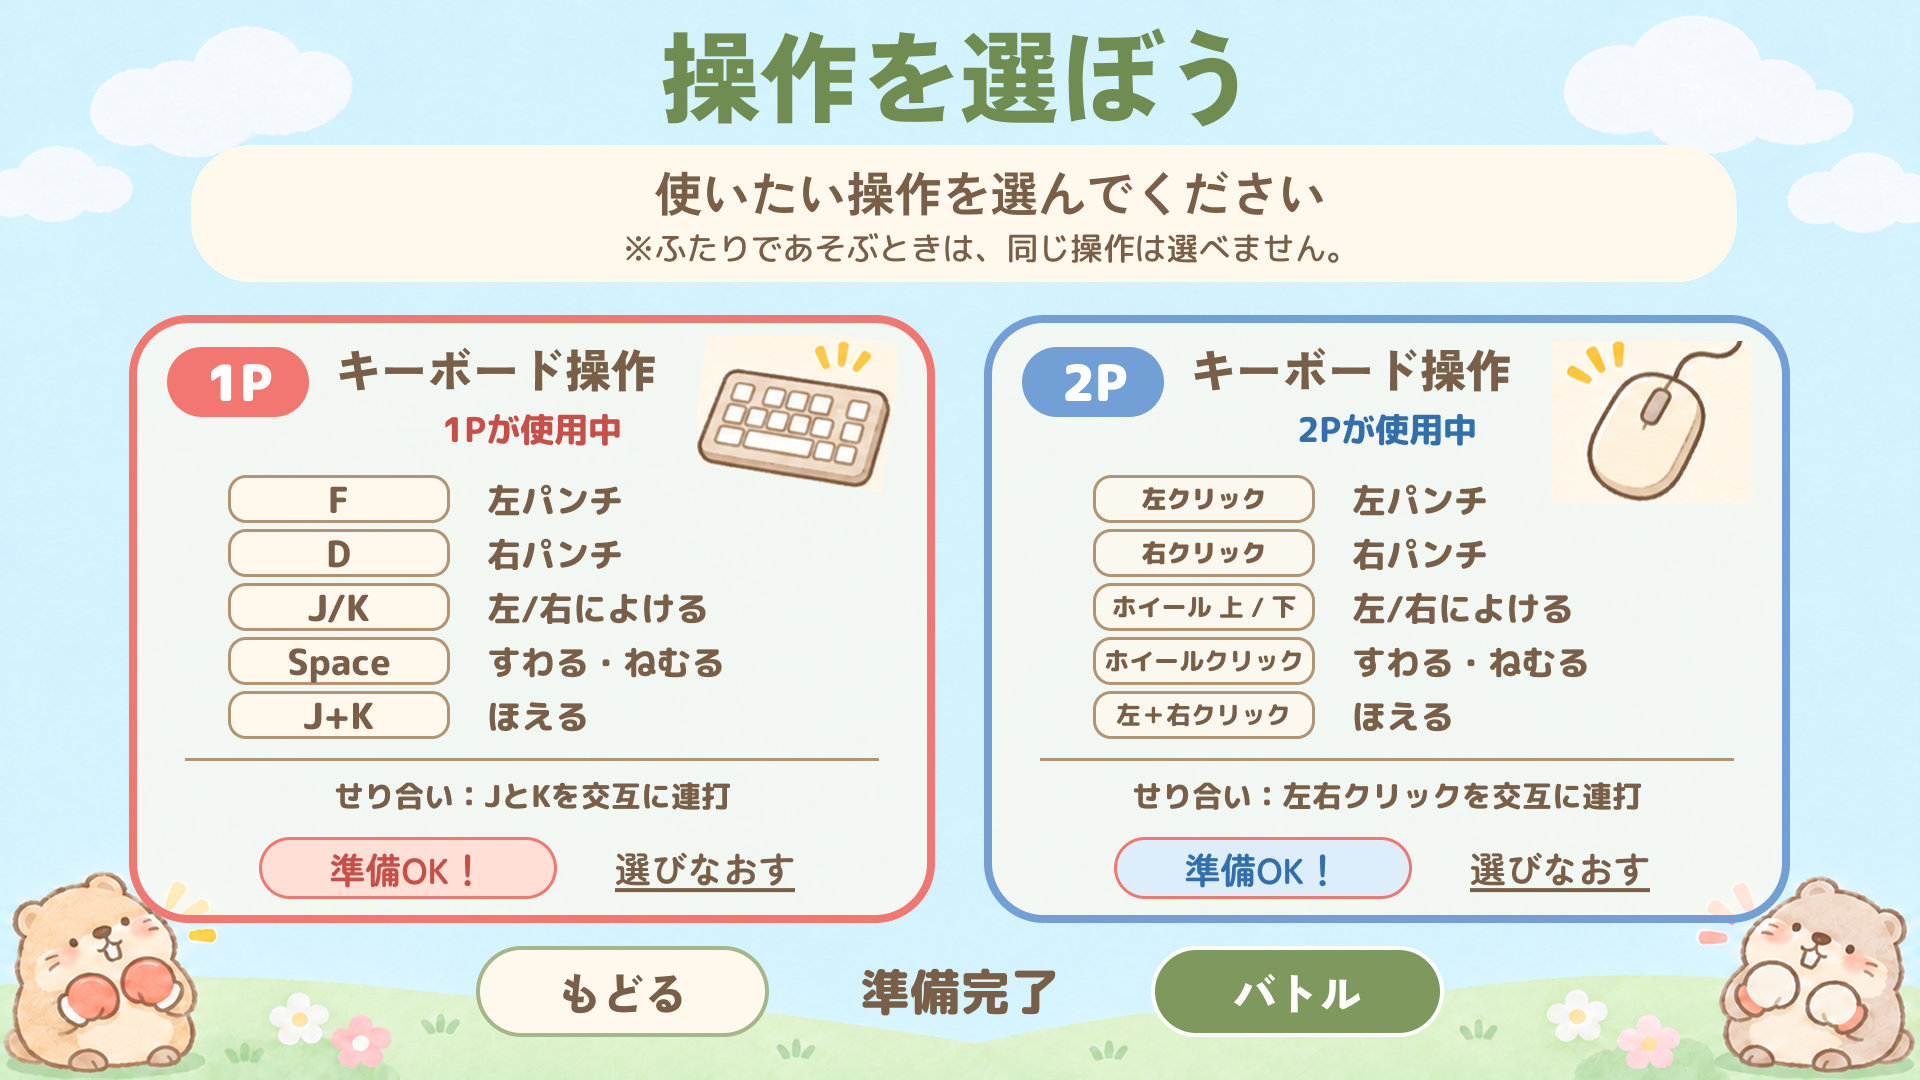
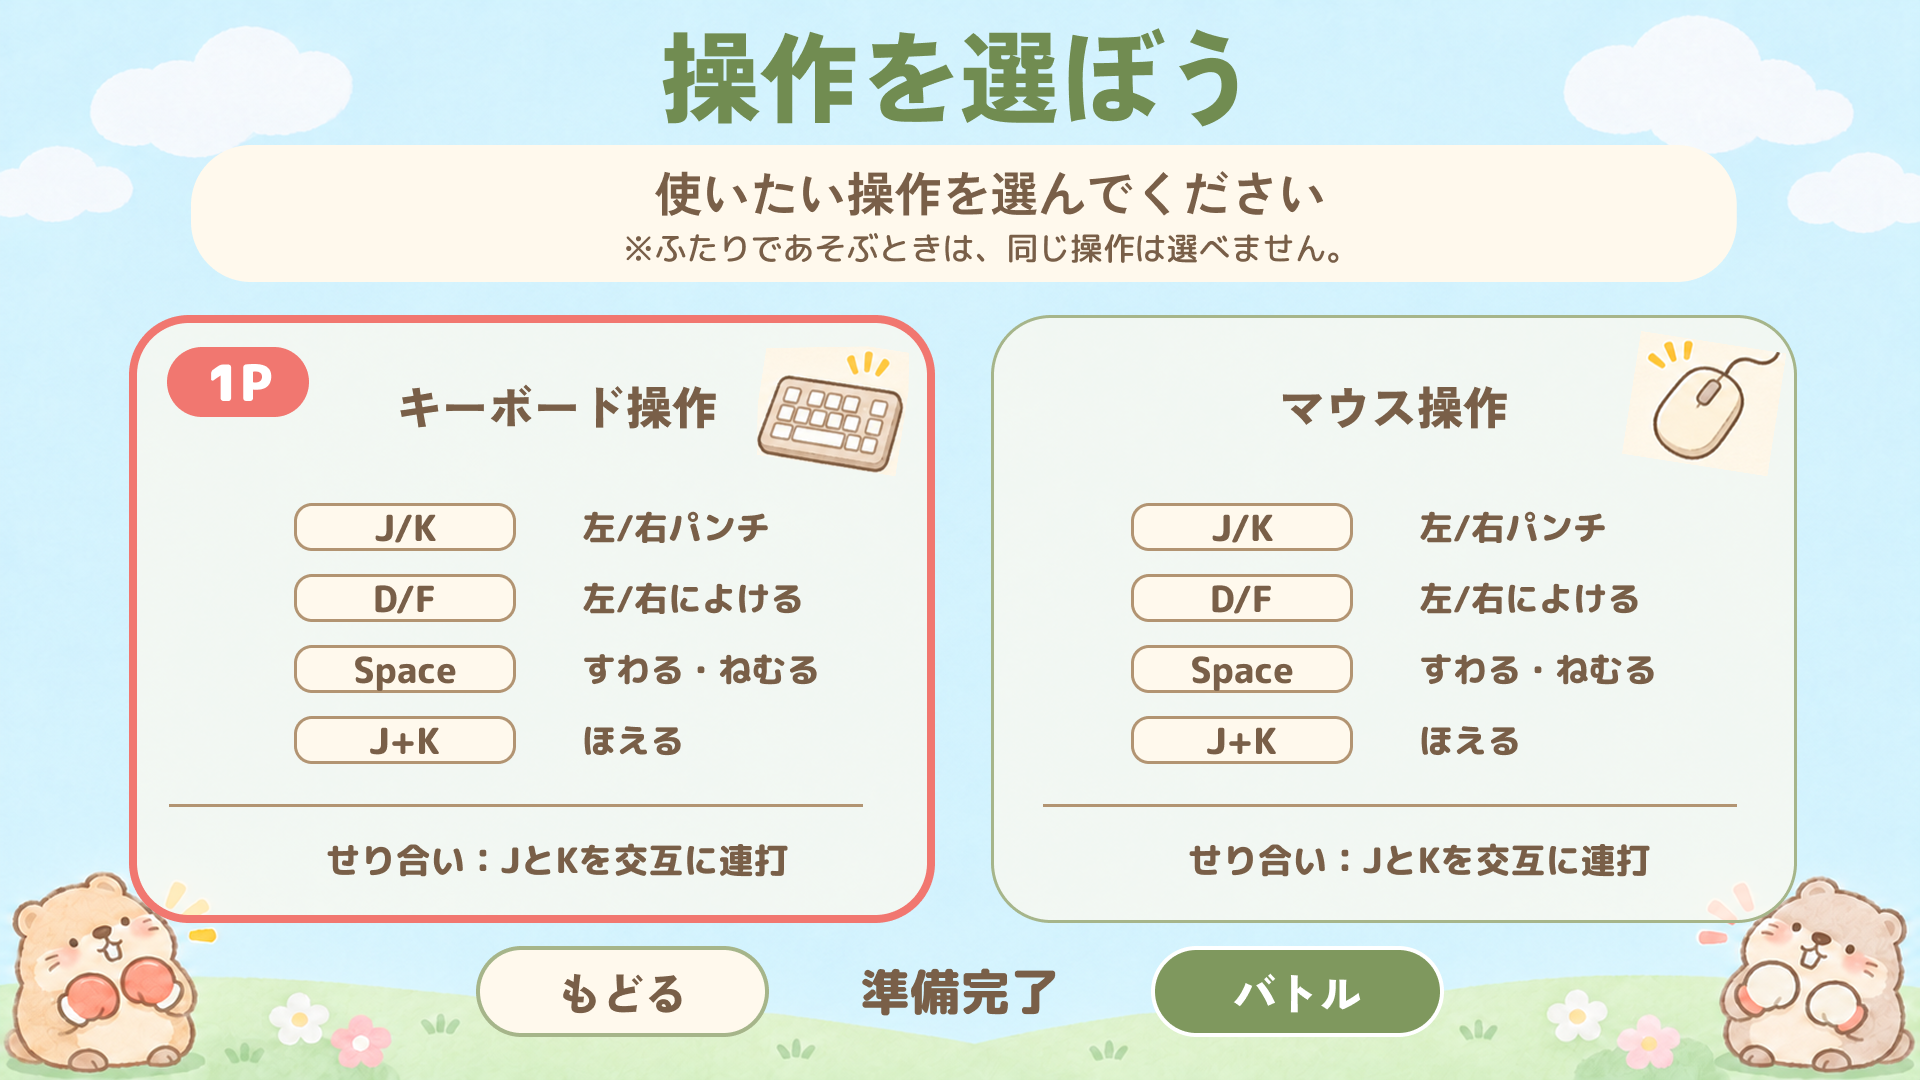
操作説明画面の修正をコミット

Changed region(s): [[0.5, 0.275, 0.9375, 0.8556], [0.125, 0.3056, 0.4688, 0.8556]]

diff --git a/style.css b/style.css
@@ -558,29 +558,82 @@ body {
 
 /* Completed illustrations already contain the text and button artwork. */
 .intro-screen[hidden] { display: none !important; }
-.intro-screen { position:absolute; inset:0; z-index:40; background-size:100% 100%; background-repeat:no-repeat; }
+.intro-screen { position:absolute; inset:0; z-index:40; background-color:#d4eff8; background-size:100% 100%; background-repeat:no-repeat; }
 #title-screen { display:block; background-image:url('assets/title/トップ画面.png'); background-size:100% 100%; background-position:center; }
 #rules-screen { background-image:var(--rule-background); }
+.rule-descriptions { position:absolute; inset:0; pointer-events:none; }
+.rule-descriptions p { position:absolute; top:68.2%; width:27%; height:14.5%; margin:0; padding:1% 0 0; box-sizing:border-box; background:#f2f7f2; color:#765b46; font:700 2.8cqh/1.52 sans-serif; text-align:center; white-space:pre-line; }
+.rule-descriptions p:nth-child(1) { left:7.2%; }
+.rule-descriptions p:nth-child(2) { left:36.5%; }
+.rule-descriptions p:nth-child(3) { left:65.8%; }
 #two-player-help { background-image:url('assets/title/Rule4.png'); }
 .intro-screen .hotspot, #title-screen .hotspot { position:absolute; margin:0; padding:0; border:0; border-radius:0; background:transparent; cursor:pointer; }
-.intro-screen .hotspot:focus-visible { outline: 0.35cqw solid #335b92; outline-offset: -0.35cqw; }
+.intro-screen .hotspot:focus-visible { outline: 0.25cqw solid #335b92; outline-offset: 0.15cqw; border-radius: 5cqh; }
 #start-button, #two-player-button, #records-button { left:38%; width:24%; height:10%; }
 #start-button { top:50%; } #two-player-button { top:62.5%; } #records-button { top:75%; }
 .rule-tab { top:13.8%; width:22.5%; height:8.5%; }
 .tab1 { left:15%; } .tab2 { left:38.7%; } .tab3 { left:62.4%; }
 #rule-back, #two-player-back { left:24.8%; top:87.4%; width:15.4%; height:9%; }
 #rule-next, #two-player-start { left:60%; top:87.4%; width:15.3%; height:9%; }
-#two-player-start:disabled { cursor:not-allowed; background:rgba(241,246,230,.72); }
-#control-picker { position:absolute; left:6.6%; top:28.6%; width:86.8%; height:57%; padding:1.2% 2%; background:#d4eff8; color:#705944; font:700 2.6cqh/1.3 sans-serif; text-align:center; }
-#picker-status { height:9%; } .control-cards { display:flex; gap:3%; height:69%; }
-.control-card { position:relative; flex:1; border:.4cqw solid #b8cda7; border-radius:2cqw; padding:1%; background:#f1f6ef; color:#705944; font:inherit; cursor:pointer; }
-.control-card strong { display:block; font-size:3.3cqh; } .control-card span { display:block; margin-top:1cqh; font-size:2.4cqh; line-height:1.45; }
-.control-card em { display:block; font-style:normal; margin-top:.5cqh; } .control-card.owner-player { border-color:#ef7471; } .control-card.owner-cpu { border-color:#729ed4; }
+/* These buttons cover the artwork so their colors can respond to input. */
+#title-screen .hotspot, #rule-back, #rule-next, #two-player-back, #two-player-start {
+    display: grid; place-items: center; box-sizing: border-box;
+    border: .2cqw solid #a2b487; border-radius: 5cqh;
+    background: #fcf7eb; color: #765b46;
+    font: 900 4cqh/1 sans-serif;
+    transition: background-color 120ms, color 120ms, border-color 120ms, box-shadow 120ms;
+}
+/* Cover the original button outline just outside the interactive overlay. */
+#title-screen .hotspot {
+    border-radius: 4cqh;
+    box-shadow: 0 0 0 .6cqh #d4eff8;
+}
+#title-screen button.hotspot:active {
+    box-shadow: 0 0 0 .6cqh #d4eff8, inset 0 .6cqh 1cqh rgba(48, 55, 35, .35);
+}
+#title-screen .hotspot::before, #rule-back::before, #rule-next::before,
+#two-player-back::before, #two-player-start::before {
+    content: attr(aria-label); transition: transform 100ms;
+}
+#rule-next::before { content: 'つぎへ'; }
+#two-player-start::before { content: 'バトル'; }
+#title-screen .hotspot:hover, #rule-back:hover, #rule-next:hover,
+#two-player-back:hover, #two-player-start:not(:disabled):hover {
+    background: #829b66; color: white; border-color: white;
+}
+#title-screen .hotspot:active, #rule-back:active, #rule-next:active,
+#two-player-back:active, #two-player-start:not(:disabled):active {
+    box-shadow: inset 0 .6cqh 1cqh rgba(48, 55, 35, .35);
+}
+#title-screen .hotspot:active::before, #rule-back:active::before, #rule-next:active::before,
+#two-player-back:active::before, #two-player-start:not(:disabled):active::before {
+    transform: translateY(.4cqh) scale(.97);
+}
+#two-player-start:disabled { cursor: not-allowed; color: #a9a99b; background: #e7e9dc; }
+.rule-tab:active { background: rgba(60, 75, 45, .22); border-radius: 5cqh; }
+.control-card:not(:disabled) { transition: transform 100ms, box-shadow 100ms; }
+.control-card:not(:disabled):active { transform: translateY(.4cqh) scale(.98); box-shadow: inset 0 .5cqh 1cqh rgba(48, 55, 35, .25); }
+@media (prefers-reduced-motion: reduce) {
+    .intro-screen button { transition: none !important; }
+}
+/* Rule4 uses a 1920 × 1080 canvas; all overlay coordinates use that canvas. */
+#control-picker { position:absolute; inset:0; color:#705944; font:700 2.6cqh/1.2 sans-serif; }
+#picker-status { position:absolute; width:1px; height:1px; overflow:hidden; clip-path:inset(50%); }
+.control-cards { position:absolute; left:6.67%; top:29.17%; width:87%; height:56.3%; display:flex; gap:3.3%; }
+.control-card { position:relative; flex:1; min-width:0; height:100%; overflow:hidden; padding:0; border:.2cqw solid #a2b487; border-radius:3.2cqw; background:#f0f6f0; color:#705944; font:inherit; text-align:center; cursor:pointer; box-shadow:0 0 0 .2cqh #d4eff8; }
+.control-card strong { position:absolute; top:10%; left:19%; width:62%; font-size:4cqh; white-space:nowrap; }
+.control-card em { position:absolute; top:22%; left:20%; width:60%; font-style:normal; font-size:2.3cqh; }
+.control-icon { position:absolute; right:2%; top:2%; width:8.6cqw; height:14.5cqh; background-image:url('assets/title/Rule4.png'); background-size:100cqw 100cqh; background-repeat:no-repeat; }
+.keyboard-icon { background-position:-39cqw -31cqh; }
+.mouse-icon { background-position:-84cqw -30cqh; }
+.control-guide { position:absolute; top:30.5%; left:10%; width:80%; display:grid; gap:2.1cqh; font-size:3cqh; font-weight:900; text-align:left; }
+.control-guide > span:not(.control-struggle) { display:grid; grid-template-columns:43% 1fr; align-items:center; gap:2cqw; white-space:nowrap; }
+.control-guide kbd { border:.15cqw solid #ad9272; border-radius:1.6cqh; background:#fcf7eb; color:inherit; font:inherit; font-size:2.6cqh; font-weight:900; line-height:4cqh; padding:0 .5cqw; text-align:center; white-space:nowrap; }
+.control-struggle { position:absolute; top:27.8cqh; left:-5%; width:110%; padding-top:2.8cqh; border-top:.15cqw solid #ad9272; text-align:center; font-size:2.8cqh; font-weight:900; white-space:nowrap; }
+.control-card.owner-player { border:.4cqw solid #ef7471; } .control-card.owner-cpu { border:.4cqw solid #729ed4; }
 .control-card.owner-player em { color:#c64d4a; } .control-card.owner-cpu em { color:#3069ad; }
-.control-card.cursor-player { outline:.35cqw dashed #ef7471; outline-offset:-.9cqw; } .control-card.cursor-cpu { outline:.35cqw dashed #729ed4; outline-offset:-.9cqw; }
-.picker-actions { display:flex; justify-content:center; gap:3cqw; align-items:center; padding:1cqh; }
-.picker-actions button { border:0; border-radius:2cqh; padding:.6cqh 2cqw; color:#705944; background:#fff8eb; font:inherit; cursor:pointer; }
+.control-card.cursor-player { outline:.35cqw dashed #ef7471; outline-offset:-1cqw; } .control-card.cursor-cpu { outline:.35cqw dashed #729ed4; outline-offset:-1cqw; }
 
-#picker-ready { position:absolute; left:42%; top:87.5%; width:15%; height:8%; display:grid; place-items:center; background:#d3eff8; color:#705944; font:700 3.2cqh sans-serif; }
-.control-card.owner-player::before, .control-card.owner-cpu::before { position:absolute; left:1cqw; top:1cqh; border-radius:1cqh; padding:.2cqh 1cqw; color:white; }
+#picker-ready { position:absolute; left:42%; top:87.5%; width:15%; height:8%; display:grid; place-items:center; background:#d3eff8; color:#705944; font:900 3.2cqh sans-serif; }
+.control-card.owner-player::before, .control-card.owner-cpu::before { position:absolute; left:4%; top:5%; border-radius:4cqh; padding:.3cqh 2cqw; color:white; font-size:4cqh; }
 .control-card.owner-player::before { content:'1P'; background:#ef7471; } .control-card.owner-cpu::before { content:'2P'; background:#729ed4; }

diff --git a/game.js b/game.js
@@ -431,7 +431,6 @@ function showTitle(message) {
     controlChoices = { player: null, cpu: null };
     titleMessage.textContent = message;
     titleScreen.hidden = false;
-    startButton.focus();
 }
 
 function resetRunScore() {
@@ -2839,26 +2838,31 @@ gameScreen.addEventListener("contextmenu", (event) => {
 const rulesScreen = document.getElementById('rules-screen');
 const controlCards = [...document.querySelectorAll('.control-card')];
 const pickerStatus = document.getElementById('picker-status');
-const selectionSummary = document.getElementById('selection-summary');
+const ruleDescriptions = [
+    ['パンチを３回当てると、\n相手がニンジンを落とすよ。\n落ちたにんじんは自動で拾える！', 'パンチをよけることに成功すると、\nスタミナがすこしだけ回復する！', 'にんじんを持ってすわると、\n食べるスピードがUP！\nパンチとよけるはできなくなる。'],
+    ['何もしていないあいだは、\nスタミナが少しずつ回復する。\nパンチやよけるで消費するよ。', 'にんじんを持たずにすわると、\nスタミナの回復スピードがUP！\nほかの操作で起きあがれるよ。', 'スタミナがなくなると、\n少しのあいだ疲れて動けなくなる。\n使いきる前にひと休みしよう。'],
+    ['ほえるゲージをMAXまで使って、\n相手の動きを足止めできるよ！\n相手のにんじんも落とせる。', '「WARNING」の表示に合わせて、\nすわる・ねむるをすると、\nほえるを防ぐことができるよ！', 'にんじんを同時にひろうと、\nせり合いモードになる。\n勝ってにんじんを手に入れよう！'],
+];
 function showRule(page) {
     rulePage = page; titleScreen.hidden = true; twoPlayerHelp.hidden = true; rulesScreen.hidden = false;
+    rulesScreen.querySelectorAll('.rule-descriptions p').forEach((item, index) => { item.textContent = ruleDescriptions[page - 1][index]; });
     rulesScreen.style.setProperty('--rule-background', 'url("assets/title/Rule' + page + '.png")');
     document.getElementById('rule-next').setAttribute('aria-label', page === 3 ? '操作を選ぶ' : 'つぎへ');
 }
 function renderControlPicker() {
-    const current = !controlChoices.player ? 'player' : gameMode === '2p' && !controlChoices.cpu ? 'cpu' : null;
-    pickerStatus.textContent = current ? (current === 'player' ? '1P：操作を選んで決定' : '2P：操作を選んで決定') : '準備完了！';
-    selectionSummary.textContent = current ? '' : '準備OK！';
+    const ready = !!controlChoices.player;
+    pickerStatus.textContent = ready ? '準備完了！' : '1P：操作を選んで決定';
     for (const card of controlCards) {
         const value = card.dataset.control;
         const owner = controlChoices.player === value ? 'player' : controlChoices.cpu === value ? 'cpu' : null;
-        card.classList.toggle('owner-player', owner === 'player'); card.classList.toggle('owner-cpu', owner === 'cpu');
-        card.querySelector('em').textContent = owner ? (owner === 'player' ? '1P' : '2P') + ' が使用中　準備OK！' : '選んで決定';
-        card.disabled = !!owner || !current;
+        card.classList.toggle('owner-player', owner === 'player');
+        card.classList.toggle('owner-cpu', owner === 'cpu');
+        card.querySelector('em').textContent = owner ? (owner === 'player' ? '1P' : '2P') + ' が使用中' : '選んで決定';
+        card.setAttribute('aria-pressed', String(owner === 'player'));
         card.classList.remove('cursor-player', 'cursor-cpu');
     }
-    twoPlayerStart.disabled = !!current;
-    document.getElementById('picker-ready').textContent = current ? '操作を選択中' : '準備完了';
+    twoPlayerStart.disabled = !ready;
+    document.getElementById('picker-ready').textContent = ready ? '準備完了' : '操作を選択中';
 }
 function beginSetup(mode) { gameMode = mode; controlChoices = { player:null, cpu:null }; showRule(1); }
 startButton.addEventListener('click', () => beginSetup('cpu'));
@@ -2870,16 +2874,16 @@ document.getElementById('rule-next').addEventListener('click', () => {
     else { rulesScreen.hidden = true; twoPlayerHelp.hidden = false; renderControlPicker(); }
 });
 controlCards.forEach(card => {
-    const cursor = () => { const current = !controlChoices.player ? 'player' : gameMode === '2p' && !controlChoices.cpu ? 'cpu' : null; if (current && !card.disabled) card.classList.add('cursor-' + current); };
+    const cursor = () => card.classList.add('cursor-player');
     card.addEventListener('mouseenter', cursor); card.addEventListener('focus', cursor);
-    card.addEventListener('mouseleave', () => card.classList.remove('cursor-player','cursor-cpu')); card.addEventListener('blur', () => card.classList.remove('cursor-player','cursor-cpu'));
+    card.addEventListener('mouseleave', () => card.classList.remove('cursor-player')); card.addEventListener('blur', () => card.classList.remove('cursor-player'));
     card.addEventListener('click', () => {
-        const current = !controlChoices.player ? 'player' : gameMode === '2p' && !controlChoices.cpu ? 'cpu' : null;
-        if (!current || Object.values(controlChoices).includes(card.dataset.control)) return;
-        controlChoices[current] = card.dataset.control; renderControlPicker();
+        const value = card.dataset.control;
+        const player = controlChoices.player === value ? null : value;
+        controlChoices = { player, cpu: player && gameMode === '2p' ? (player === 'keyboard' ? 'mouse' : 'keyboard') : null };
+        renderControlPicker();
     });
 });
-document.getElementById('choose-reset').addEventListener('click', () => { controlChoices = {player:null,cpu:null}; renderControlPicker(); });
 twoPlayerBack.addEventListener('click', () => showRule(3));
 twoPlayerStart.addEventListener('click', () => {
     if (!controlChoices.player || (gameMode === '2p' && !controlChoices.cpu)) return;

diff --git a/index.html b/index.html
@@ -65,13 +65,14 @@
         <div id="finish-label" aria-live="assertive" hidden>FINISH</div>
         <div id="result-label" aria-live="assertive" hidden></div>
         <div id="start-label" role="status" aria-live="assertive" hidden><img id="start-image" alt=""></div>
-        <div id="title-screen" class="intro-screen" hidden>
+        <div id="title-screen" class="intro-screen">
             <span id="title-message" hidden></span>
             <button id="start-button" class="hotspot" aria-label="ひとりであそぶ"></button>
             <button id="two-player-button" class="hotspot" aria-label="ふたりであそぶ"></button>
             <button id="records-button" class="hotspot" aria-label="ベスト記録"></button>
         </div>
         <section id="rules-screen" class="intro-screen" hidden aria-label="あそびのルール">
+            <div class="rule-descriptions" aria-hidden="true"><p></p><p></p><p></p></div>
             <button class="hotspot rule-tab tab1" data-rule="1" aria-label="基本のあそび方"></button>
             <button class="hotspot rule-tab tab2" data-rule="2" aria-label="スタミナと回復"></button>
             <button class="hotspot rule-tab tab3" data-rule="3" aria-label="ほえる・せり合い"></button>
@@ -82,10 +83,15 @@
             <div id="control-picker">
               <div id="picker-status" aria-live="polite"></div>
               <div class="control-cards">
-                <button class="control-card" data-control="keyboard"><strong>キーボード操作</strong><span>F / D：左右パンチ<br>J / K：左右によける<br>Space：すわる・ねむる<br>D＋F長押し：ほえる<br>せり合い：J / K</span><em></em></button>
-                <button class="control-card" data-control="mouse"><strong>マウス操作</strong><span>左右クリック：パンチ<br>ホイール上下：左右によける<br>ホイールクリック：すわる<br>左右クリック：ほえる<br>せり合い：クリック / ホイール</span><em></em></button>
+                <button class="control-card" data-control="keyboard" type="button">
+                  <strong>キーボード操作</strong><span class="control-icon keyboard-icon" aria-hidden="true"></span><em></em>
+                  <span class="control-guide"><span><kbd>F / D</kbd> 左右パンチ</span><span><kbd>J / K</kbd> 左右によける</span><span><kbd>Space</kbd> すわる・ねむる</span><span><kbd>D＋F 長押し</kbd> ほえる</span><span class="control-struggle">せり合い：J / K を交互に連打</span></span>
+                </button>
+                <button class="control-card" data-control="mouse" type="button">
+                  <strong>マウス操作</strong><span class="control-icon mouse-icon" aria-hidden="true"></span><em></em>
+                  <span class="control-guide"><span><kbd>左右クリック</kbd> パンチ</span><span><kbd>ホイール上下</kbd> 左右によける</span><span><kbd>ホイールクリック</kbd> すわる</span><span><kbd>左右同時押し</kbd> ほえる</span><span class="control-struggle">せり合い：クリック / ホイール</span></span>
+                </button>
               </div>
-              <div class="picker-actions"><button id="choose-reset" type="button">選びなおす</button><span id="selection-summary"></span></div>
             </div>
             <div id="picker-ready" aria-live="polite"></div>
             <button id="two-player-back" class="hotspot" aria-label="もどる"></button>
